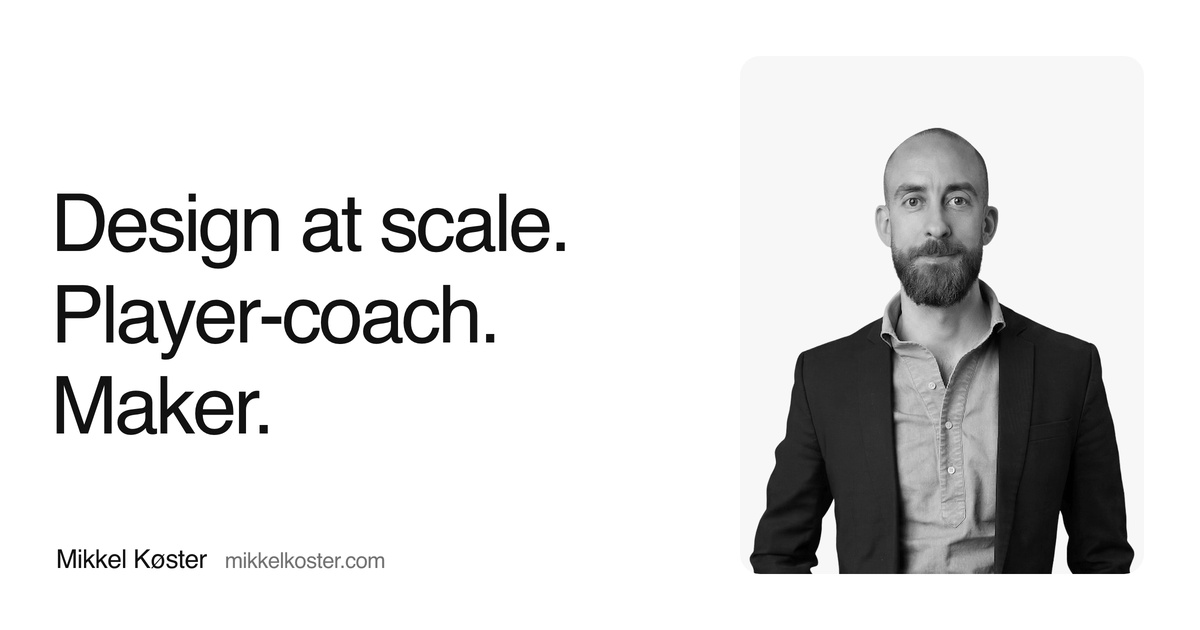
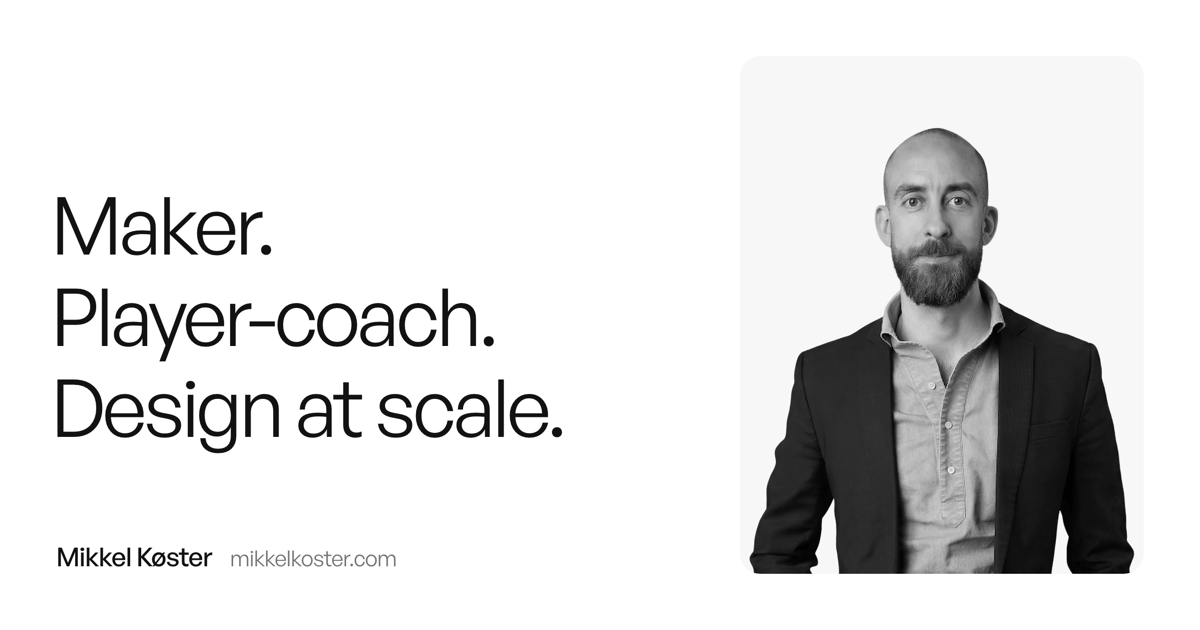
Share image in the same order as the hero: Maker. Player-coach. Design at scale.

diff --git a/index.html b/index.html
@@ -33,11 +33,11 @@
 <meta property="og:site_name" content="Mikkel Køster">
 <meta property="og:title" content="Mikkel Køster · Product Designer &amp; Design Leader">
 <meta property="og:description" content="A design leader who still does the design. 15 years in product design, 8 of them leading teams.">
-<meta property="og:image" content="https://www.mikkelkoster.com/public/meta/og-image.png?v=2">
+<meta property="og:image" content="https://www.mikkelkoster.com/public/meta/og-image.png?v=3">
 <meta property="og:image:type" content="image/png">
 <meta property="og:image:width" content="1200">
 <meta property="og:image:height" content="630">
-<meta property="og:image:alt" content="Design at scale. Player-coach. Maker. — Mikkel Køster">
+<meta property="og:image:alt" content="Maker. Player-coach. Design at scale. Mikkel Køster">
 <meta name="twitter:card" content="summary_large_image">
 </head>
 <body>

diff --git a/og-card.html b/og-card.html
@@ -52,7 +52,7 @@
 </style></head>
 <body>
   <div class="text">
-    <h1>Design at scale.<br>Player-coach.<br>Maker.</h1>
+    <h1>Maker.<br>Player-coach.<br>Design at scale.</h1>
     <p class="sign"><b>Mikkel Køster</b><span>mikkelkoster.com</span></p>
   </div>
   <div class="figure">
